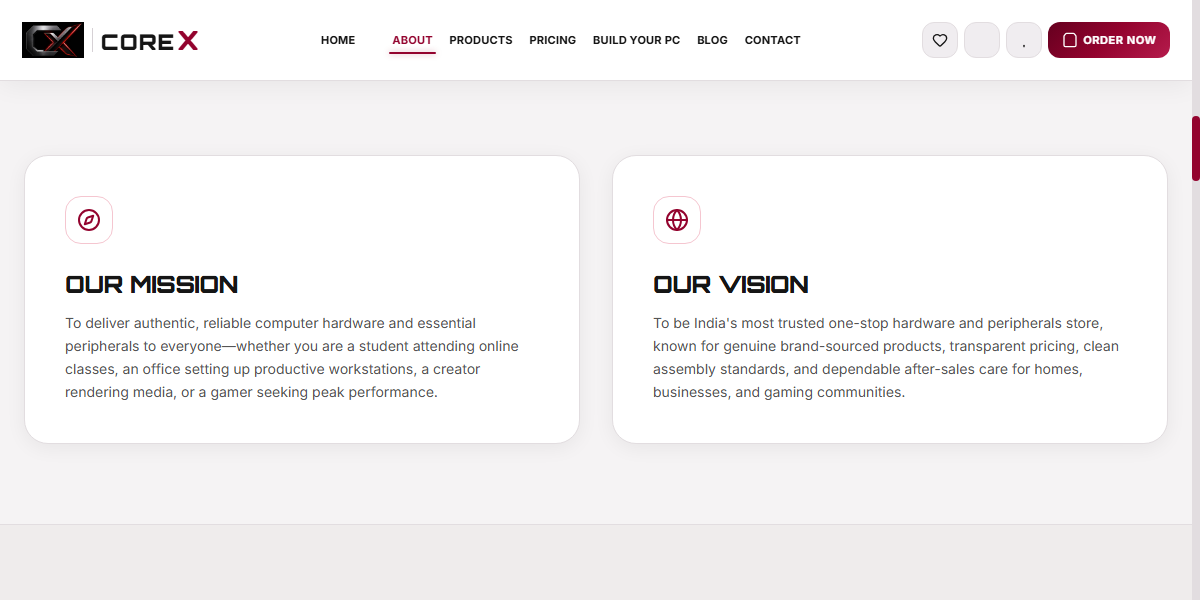
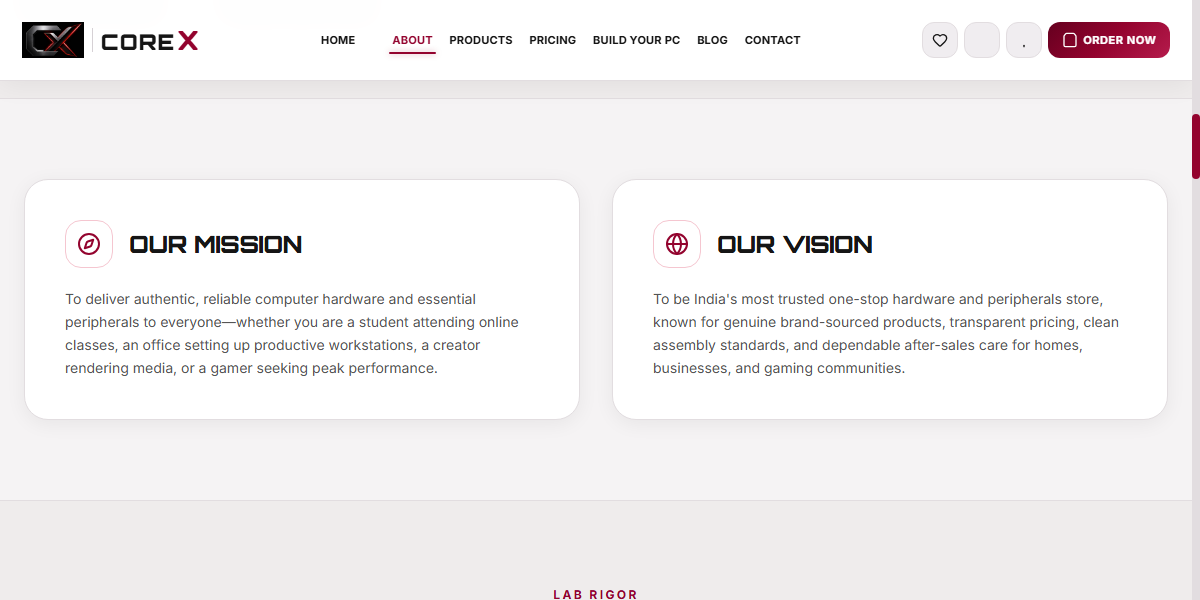
fix(about): place heading on the right side of symbol in mission and vision cards

Changed region(s): [[0.0308, 0.33, 0.4317, 0.66], [0.5242, 0.33, 0.925, 0.66], [0.4625, 0.96, 0.555, 1.0]]

diff --git a/about.html b/about.html
@@ -311,21 +311,25 @@
         <div class="grid grid-cols-1 md:grid-cols-2 gap-8">
           
           <div class="bg-[#202020] rounded-3xl border border-[#383838] p-8 lg:p-10 card-3d">
-            <div class="w-12 h-12 rounded-2xl bg-neutral-900 border border-neutral-700 flex items-center justify-center text-rose-400 mb-6">
-              <i data-lucide="compass" class="w-6 h-6"></i>
+            <div class="flex items-center gap-4 mb-5">
+              <div class="w-12 h-12 rounded-2xl bg-neutral-900 border border-neutral-700 flex items-center justify-center text-rose-400 flex-shrink-0">
+                <i data-lucide="compass" class="w-6 h-6"></i>
+              </div>
+              <h3 class="text-2xl font-black font-heading text-white uppercase tracking-tight">Our Mission</h3>
             </div>
-            <h3 class="text-2xl font-black font-heading text-white uppercase tracking-tight">Our Mission</h3>
-            <p class="text-neutral-400 text-sm mt-3 leading-relaxed">
+            <p class="text-neutral-400 text-sm leading-relaxed">
               To deliver authentic, reliable computer hardware and essential peripherals to everyone—whether you are a student attending online classes, an office setting up productive workstations, a creator rendering media, or a gamer seeking peak performance.
             </p>
           </div>
 
           <div class="bg-[#202020] rounded-3xl border border-[#383838] p-8 lg:p-10 card-3d">
-            <div class="w-12 h-12 rounded-2xl bg-neutral-900 border border-neutral-700 flex items-center justify-center text-rose-400 mb-6">
-              <i data-lucide="globe" class="w-6 h-6"></i>
+            <div class="flex items-center gap-4 mb-5">
+              <div class="w-12 h-12 rounded-2xl bg-neutral-900 border border-neutral-700 flex items-center justify-center text-rose-400 flex-shrink-0">
+                <i data-lucide="globe" class="w-6 h-6"></i>
+              </div>
+              <h3 class="text-2xl font-black font-heading text-white uppercase tracking-tight">Our Vision</h3>
             </div>
-            <h3 class="text-2xl font-black font-heading text-white uppercase tracking-tight">Our Vision</h3>
-            <p class="text-neutral-400 text-sm mt-3 leading-relaxed">
+            <p class="text-neutral-400 text-sm leading-relaxed">
               To be India's most trusted one-stop hardware and peripherals store, known for genuine brand-sourced products, transparent pricing, clean assembly standards, and dependable after-sales care for homes, businesses, and gaming communities.
             </p>
           </div>
